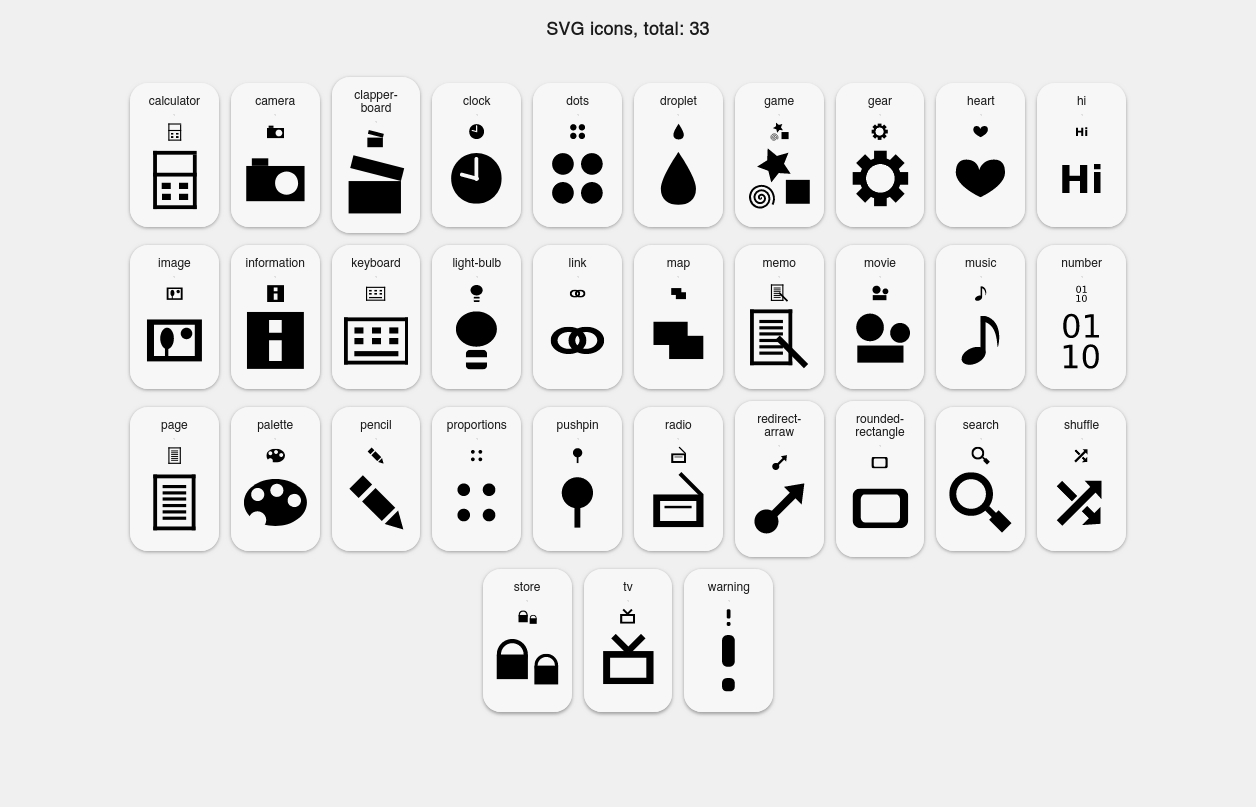
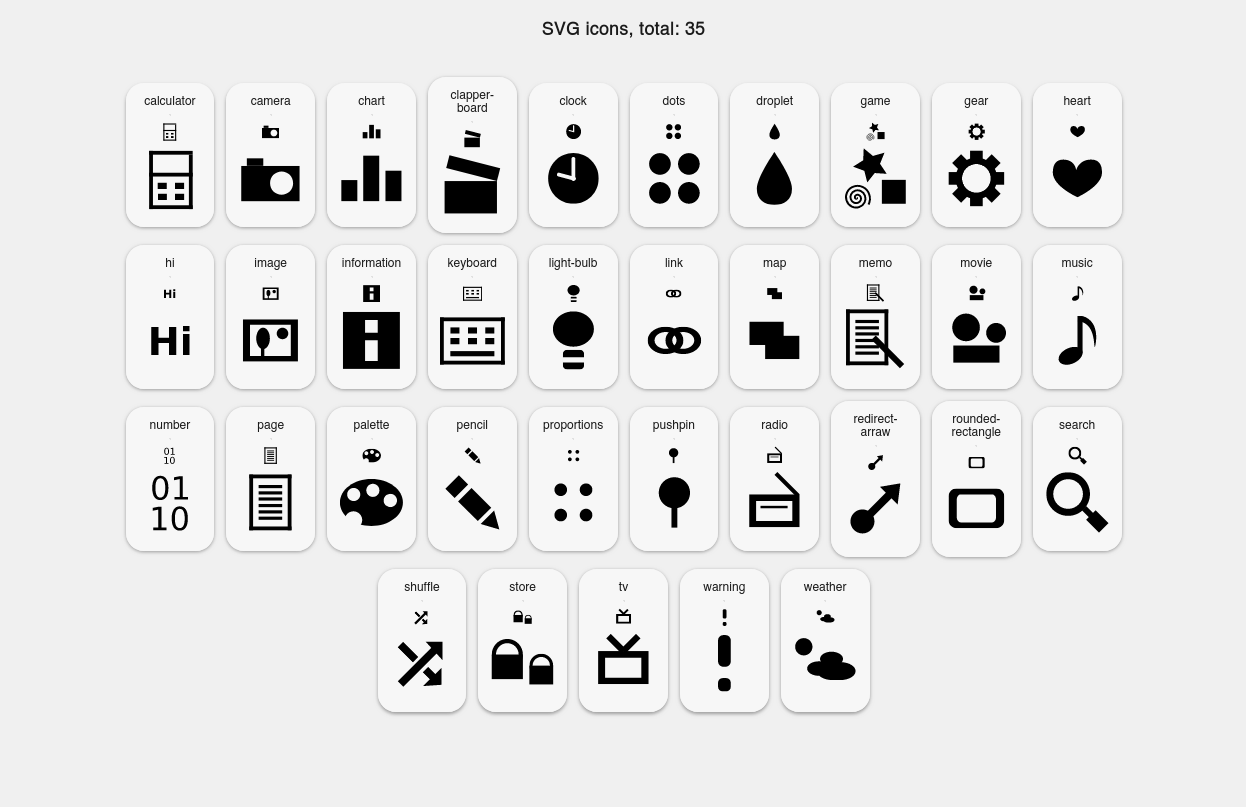
update

diff --git a/data/iconsJsonVar.js b/data/iconsJsonVar.js
@@ -705,14 +705,8 @@ var iconsJsonVar =
 {
 "text": `weather`,
 "text2": `<svg width="512" height="512" version="1.1" viewBox="0 0 512 512" xmlns="http://www.w3.org/2000/svg">
- <defs>
-  <clipPath id="clipPath5778">
-   <path d="m164.05 141.42a59.373 59.373 0 0 1-59.373 59.373 59.373 59.373 0 0 1-59.373-59.373 59.373 59.373 0 0 1 59.373-59.373 59.373 59.373 0 0 1 59.373 59.373z" display="none" fill="#e9b96e" stroke-width="15.444"/>
-   <path class="powerclip" d="m13.823 47.126h186.74v186.74h-186.74zm150.23 94.29a59.373 59.373 0 0 0-59.373-59.373 59.373 59.373 0 0 0-59.373 59.373 59.373 59.373 0 0 0 59.373 59.373 59.373 59.373 0 0 0 59.373-59.373z" fill="#e9b96e" stroke-width="15.444"/>
-  </clipPath>
- </defs>
- <path d="m195.57 140.5a88.371 88.371 0 0 1-88.371 88.371 88.371 88.371 0 0 1-88.371-88.371 88.371 88.371 0 0 1 88.371-88.371 88.371 88.371 0 0 1 88.371 88.371z" clip-path="url(#clipPath5778)" stroke-width="22.987"/>
- <path d="m88.086 365.71c111.29 66.566 232.85 77.204 370.52 0 63.535-51.553-55.084-116.88-84.301-73.056-19.752-95.236-141.87-120.35-178.09 4.5497-23.968-49.519-161.21-29.502-108.13 68.506z" fill="none" stroke="#000" stroke-width="27.77"/>
+ <path d="m304.44 163.65c-50.344 0-90.873 25.441-90.873 57.043 0 6.9875 1.9871 13.672 5.6181 19.848-5.4419-0.63348-11.049-0.9806-16.792-0.9806-50.345 0-90.875 25.441-90.875 57.043s40.531 57.043 90.875 57.043c1.8694 0 3.72-0.0468 5.5608-0.11589 21.24 20.525 59.775 34.19 103.97 34.19h61.184c67.278 0 121.44-31.66 121.44-70.987 0-36.813-47.464-66.904-108.72-70.6 6.0574-7.6528 9.4782-16.285 9.4782-25.441 0-31.602-40.531-57.043-90.875-57.043z" stroke-width="13.014"/>
+ <circle cx="85.316" cy="124.55" r="68.549" stroke-width="29.455"/>
 </svg>
 `,
 }

diff --git a/README.md b/README.md
@@ -72,9 +72,10 @@
 [#Website](https://github.com/topics/website?s=updated),
 [#Personal](https://github.com/topics/personal?s=updated),
 [#Home page](https://github.com/topics/homepage?s=updated),
-[#Projects](https://github.com/topics/projects?s=updated),
 [#Web Dev](https://github.com/topics/webdev?s=updated),
-[#Web Design](https://github.com/topics/webdesign?s=updated),
+[#Web Design](https://github.com/topics/webdesign?s=updated),  
+  
+[#Projects](https://github.com/topics/projects?s=updated),
 [#HTML](https://github.com/topics/HTML?s=updated),
 [#CSS](https://github.com/topics/css?s=updated),
 [#JavaScript](https://github.com/topics/javascript?s=updated),
